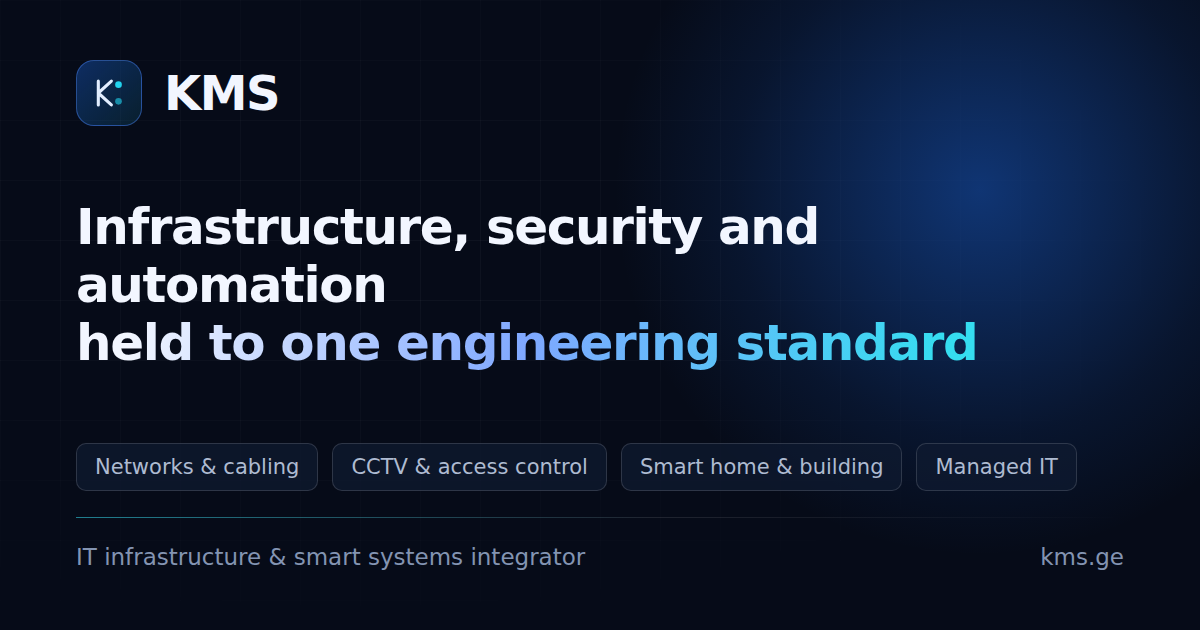
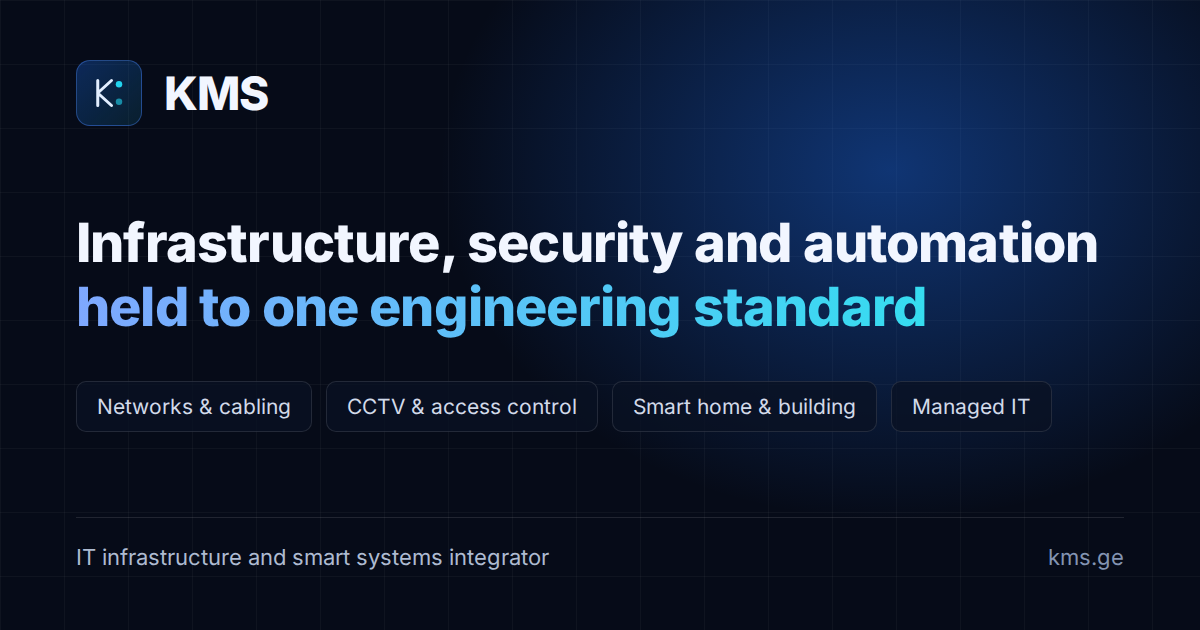
Give the Georgian pages their own share card, and stop pinning unhashed files
The site is Georgian-primary but had one share card, in English. Every
platform that renders a link preview — Facebook, LinkedIn, Telegram,
iMessage — reads og:image from the page it was handed, so pasting a
Georgian page produced an English card for the audience the site is
written for. That was the one image the set was missing.

Both cards are now generated by scripts/og-image.mjs from the hero
headline in src/content/*.ts, so the card cannot drift from the page it
represents. The script refuses to write a card whose content overflows
the 1200x630 frame rather than shipping a cropped headline, which is
what caught the Georgian pills wrapping to a second row at the English
metrics. LOCALE_META carries the filename, so Seo.tsx and the JSON-LD
both resolve it from one place.

The prerender asset guard could not have caught a missing card: it reads
href/src attributes, and metadata names its files by absolute URL. It
now also resolves https://kms.ge/<file> references, which is how it
checks 121 assets instead of 119. Verified by removing the card and
confirming the build exits 1.

Separately, the audit's cache defect had a second instance. The root
FilesMatch granted "immutable, max-age=31536000" to css|js|svg|woff2,
which was written for hashed build output — but every hashed file lives
in /assets/, and the only .svg in the entire build is the unhashed
favicon. So the rule pinned the one file it should never have pinned,
[…]

diff --git a/src/i18n/locales.ts b/src/i18n/locales.ts
@@ -8,11 +8,25 @@ export type Locale = (typeof LOCALES)[number];
  */
 export const DEFAULT_LOCALE: Locale = 'ka';
 
-export const LOCALE_META: Record<Locale, { native: string; short: string; htmlLang: string; ogLocale: string }> = {
-  ka: { native: 'ქართული', short: 'KA', htmlLang: 'ka-GE', ogLocale: 'ka_GE' },
+export const LOCALE_META: Record<
+  Locale,
+  { native: string; short: string; htmlLang: string; ogLocale: string; shareCard: string }
+> = {
+  // `shareCard` is the image every social platform renders when this locale's
+  // pages are pasted into a feed. Both files are generated by
+  // `scripts/og-image.mjs` from the hero headline, so they cannot drift from the
+  // page they represent. A single shared card would show English copy to the
+  // Georgian audience the site is written for.
+  ka: {
+    native: 'ქართული',
+    short: 'KA',
+    htmlLang: 'ka-GE',
+    ogLocale: 'ka_GE',
+    shareCard: '/og-image-ka.png',
+  },
   // Open Graph wants a full language_TERRITORY tag; a bare "en" is silently
   // ignored by Facebook's parser.
-  en: { native: 'English', short: 'EN', htmlLang: 'en', ogLocale: 'en_US' },
+  en: { native: 'English', short: 'EN', htmlLang: 'en', ogLocale: 'en_US', shareCard: '/og-image.png' },
 };
 
 export function isLocale(value: string): value is Locale {

diff --git a/src/components/seo/jsonld.ts b/src/components/seo/jsonld.ts
@@ -1,5 +1,5 @@
 import { COMPANY, socialLinks } from '../../config/site';
-import { localePath, type Locale } from '../../i18n/locales';
+import { LOCALE_META, localePath, type Locale } from '../../i18n/locales';
 
 export type JsonLd = Record<string, unknown>;
 
@@ -51,7 +51,7 @@ export function localBusiness(locale: Locale, description: string): JsonLd {
     description,
     telephone: COMPANY.phone,
     email: COMPANY.emailSales,
-    image: `${COMPANY.url}/og-image.png`,
+    image: `${COMPANY.url}${LOCALE_META[locale].shareCard}`,
     logo: `${COMPANY.url}/favicon.svg`,
     areaServed: COMPANY.region,
     address: compact({

diff --git a/src/components/seo/Seo.tsx b/src/components/seo/Seo.tsx
@@ -37,7 +37,7 @@ export function buildHead(
   { title, description, path, jsonLd = [], noindex = false }: SeoProps,
 ): HeadData {
   const canonical = `${COMPANY.url}${localePath(locale, path)}`;
-  const image = `${COMPANY.url}/og-image.png`;
+  const image = `${COMPANY.url}${LOCALE_META[locale].shareCard}`;
 
   const alternates = [
     ...LOCALES.map((code) => ({
